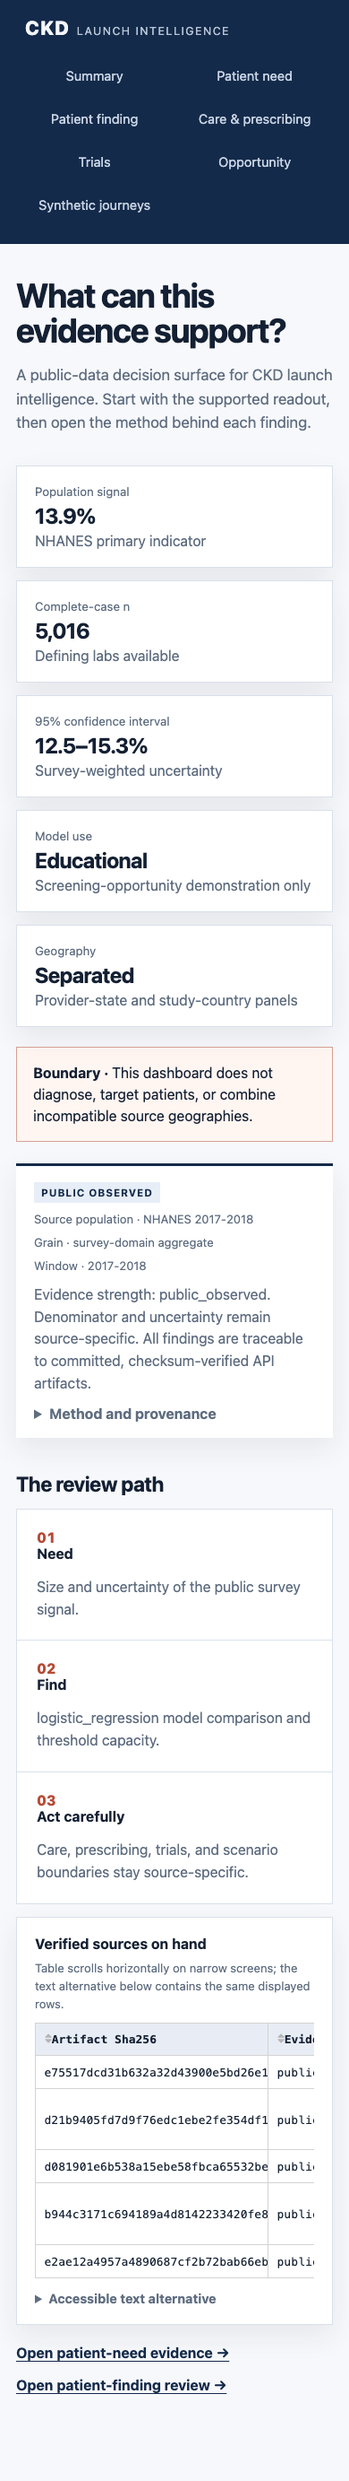
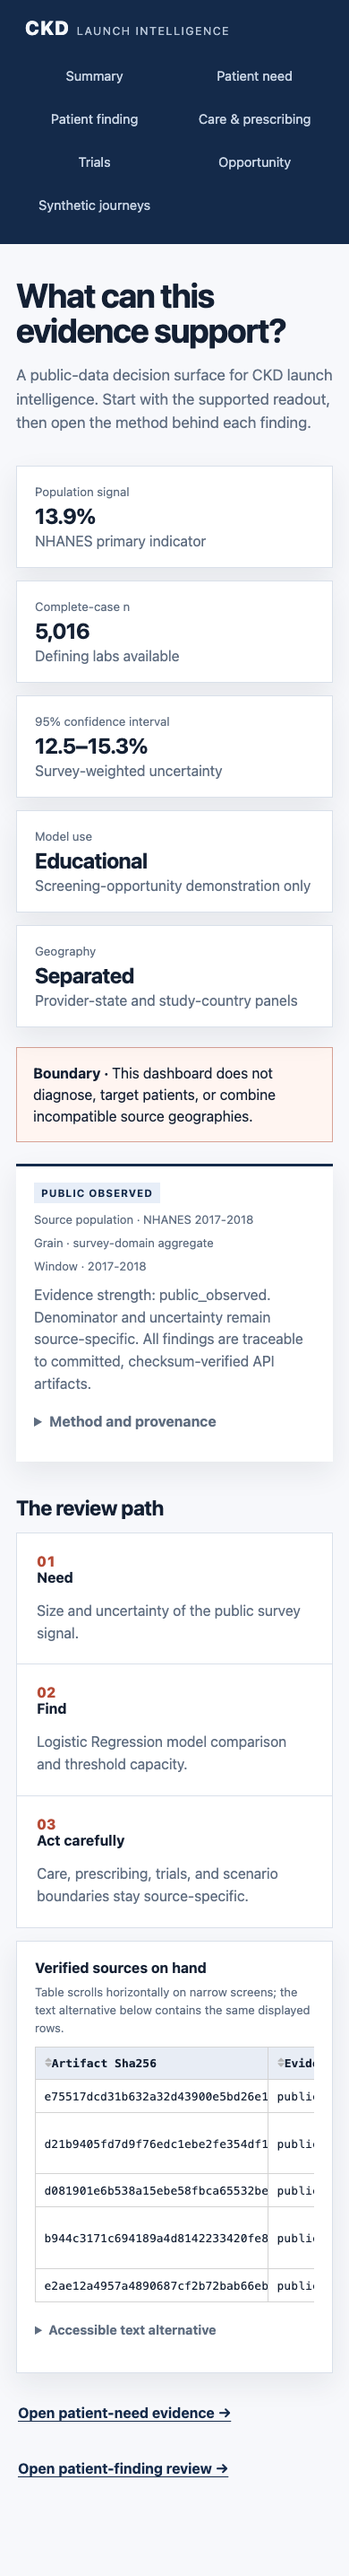
fix(dashboard): restore disclosure affordances

Changed region(s): [[0.0, 0.0, 1.0, 0.9638], [0.7385, 0.6218, 0.8615, 0.6529], [0.9231, 0.4353, 0.9538, 0.4664]]

diff --git a/dashboard/assets/styles.css b/dashboard/assets/styles.css
@@ -42,7 +42,7 @@ p { line-height: 1.55; }
 .evidence-chip { background: var(--calm); color: var(--nav); font-weight: 700; padding: 5px 8px; text-transform: uppercase; font-size: .72rem; letter-spacing: .08em; }
 .evidence-meta { font-size: .82rem; }
 .evidence-note { margin: 12px 0; color: var(--muted); }
-.method-details summary, .table-alternative summary { cursor: pointer; font-weight: 700; min-height: 44px; display: flex; align-items: center; }
+.method-details summary, .table-alternative summary { cursor: pointer; font-weight: 700; min-height: 44px; display: list-item; padding: 8px 0; }
 .method-details { margin-top: 12px; color: var(--muted); }
 .method-details p { margin: 6px 0; font-size: .87rem; }
 .section { margin-top: 38px; }

diff --git a/tests/dashboard/test_pages.py b/tests/dashboard/test_pages.py
@@ -172,6 +172,7 @@ def test_mobile_disclosures_and_summary_actions_have_touch_targets() -> None:
         Path(__file__).resolve().parents[2] / "dashboard" / "assets" / "styles.css"
     ).read_text()
     assert ".method-details summary, .table-alternative summary" in styles
+    assert "display: list-item" in styles
     assert ".summary-links a" in styles
     assert styles.count("min-height: 44px") >= 3
     assert ".subgroup-metric-grid { grid-template-columns: repeat(2, minmax(0, 1fr)); }" in styles
